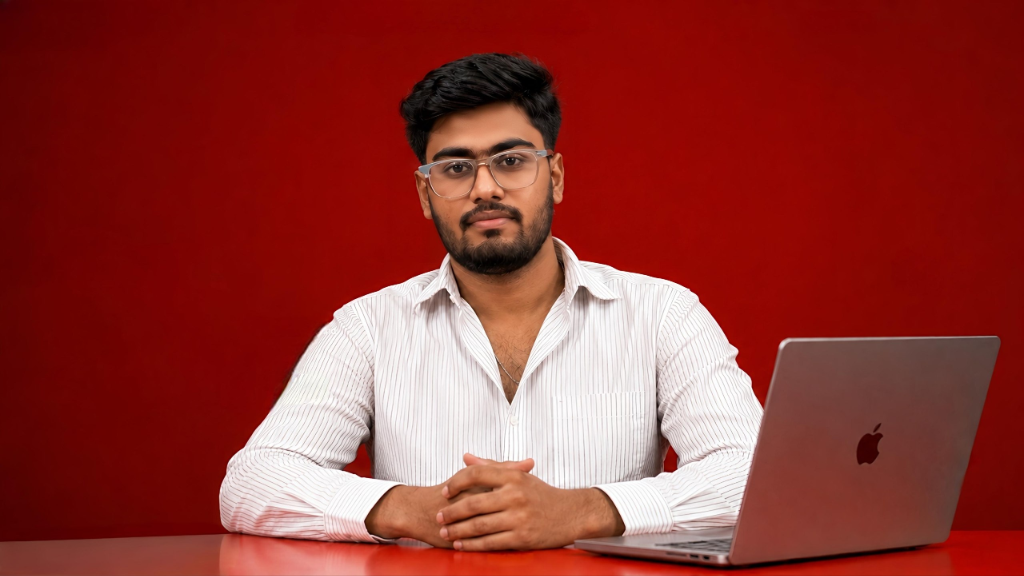
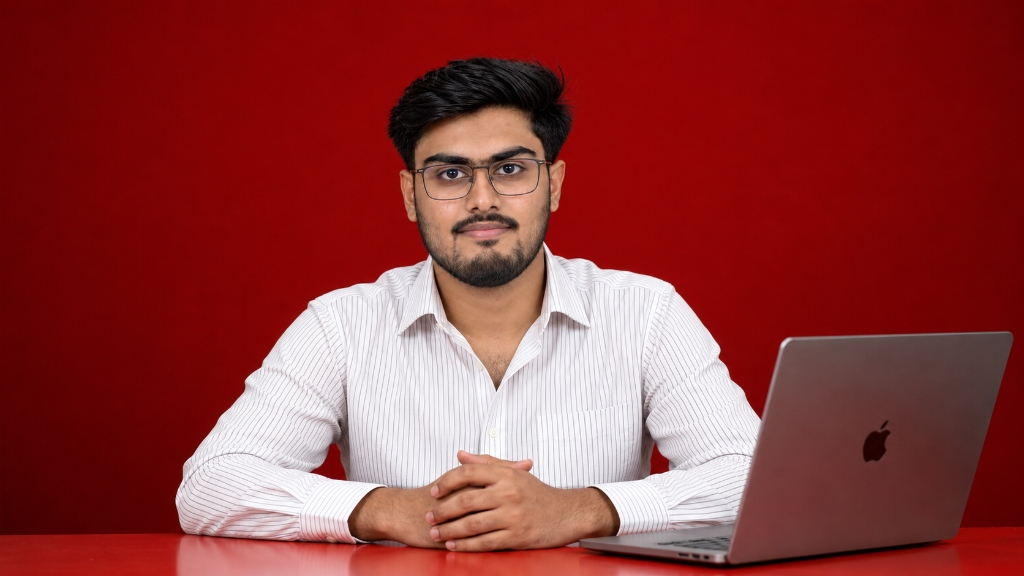
Update background photo with new portrait

Changed region(s): [[0.0, 0.0938, 1.0, 1.0], [0.8125, 0.7188, 0.875, 0.8125], [0.0, 0.0, 0.0312, 0.0312]]

diff --git a/copy_assets.js b/copy_assets.js
@@ -5,7 +5,7 @@ import { fileURLToPath } from 'url';
 const __filename = fileURLToPath(import.meta.url);
 const __dirname = path.dirname(__filename);
 
-const srcAvatar = "C:\\Users\\abn\\.gemini\\antigravity\\brain\\7dbe0731-9587-438a-9fee-e91163b974ea\\media__1783685181057.png";
+const srcAvatar = "C:\\Users\\abn\\.gemini\\antigravity\\brain\\7dbe0731-9587-438a-9fee-e91163b974ea\\media__1791225836892.jpg";
 const destAvatar = path.join(__dirname, 'src', 'assets', 'yash_photo.png');
 
 const srcResume = "C:\\Users\\abn\\.gemini\\antigravity\\brain\\7dbe0731-9587-438a-9fee-e91163b974ea\\media__1783686938497.pdf";
